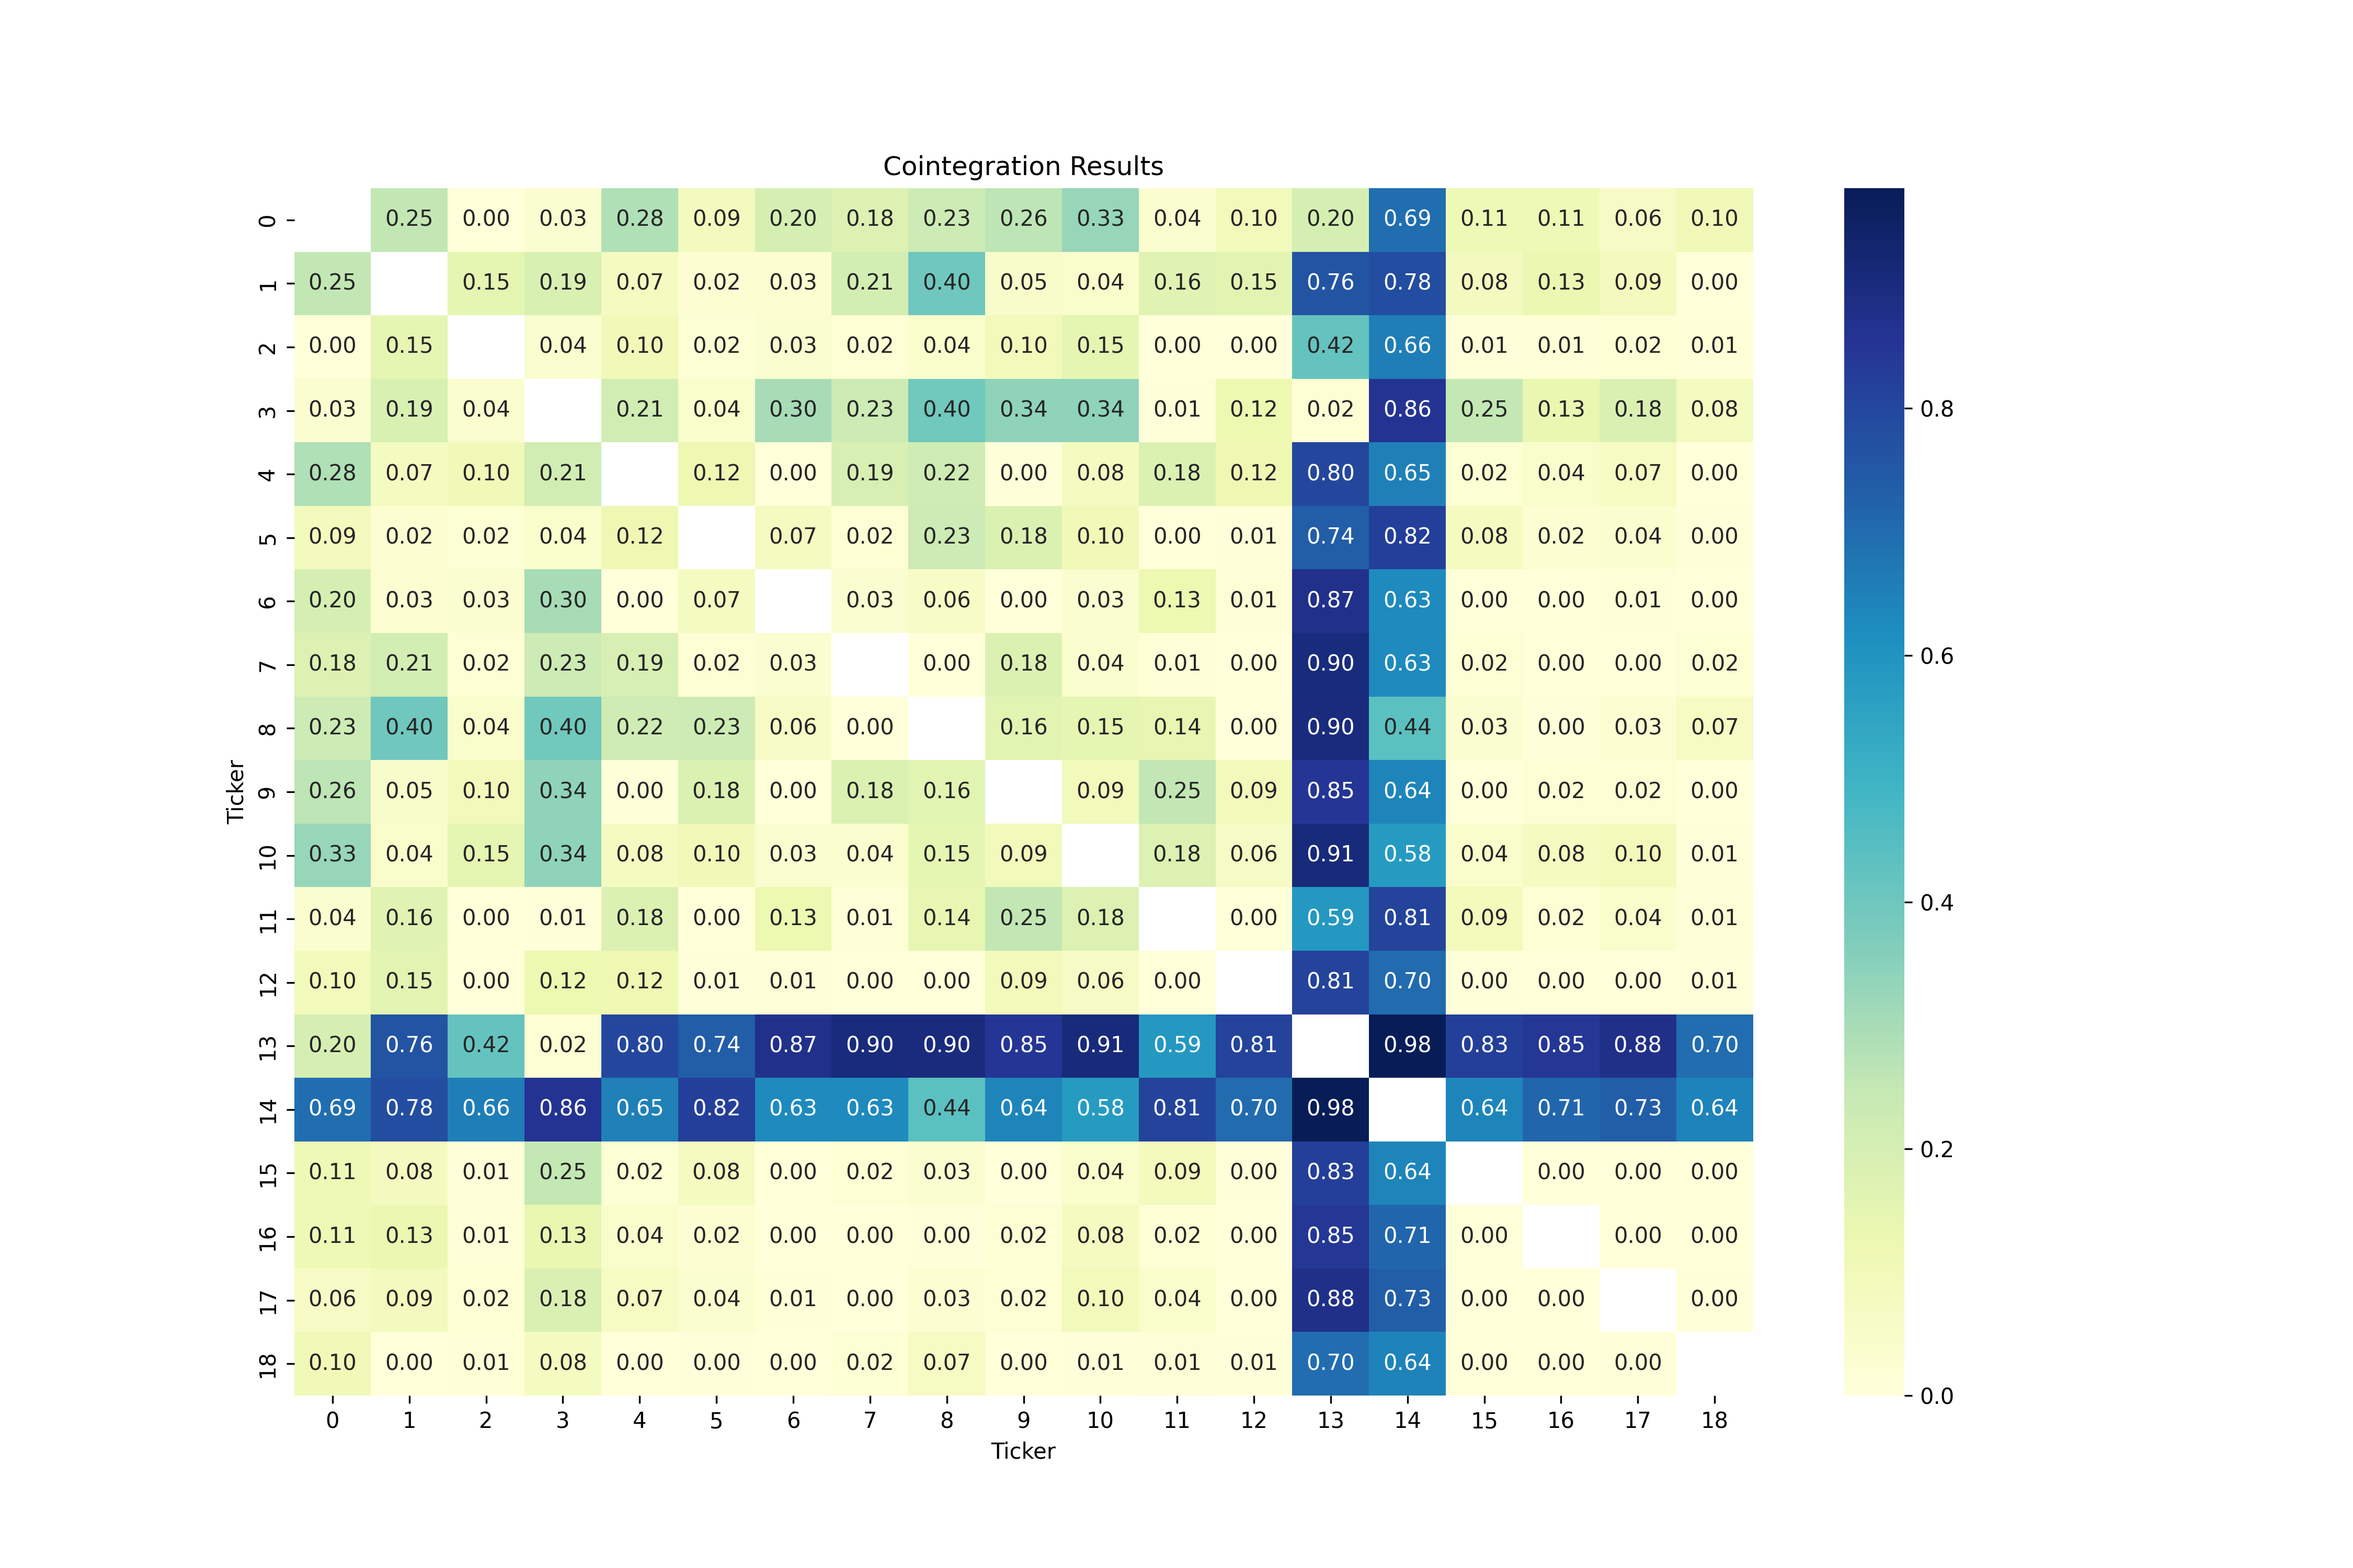
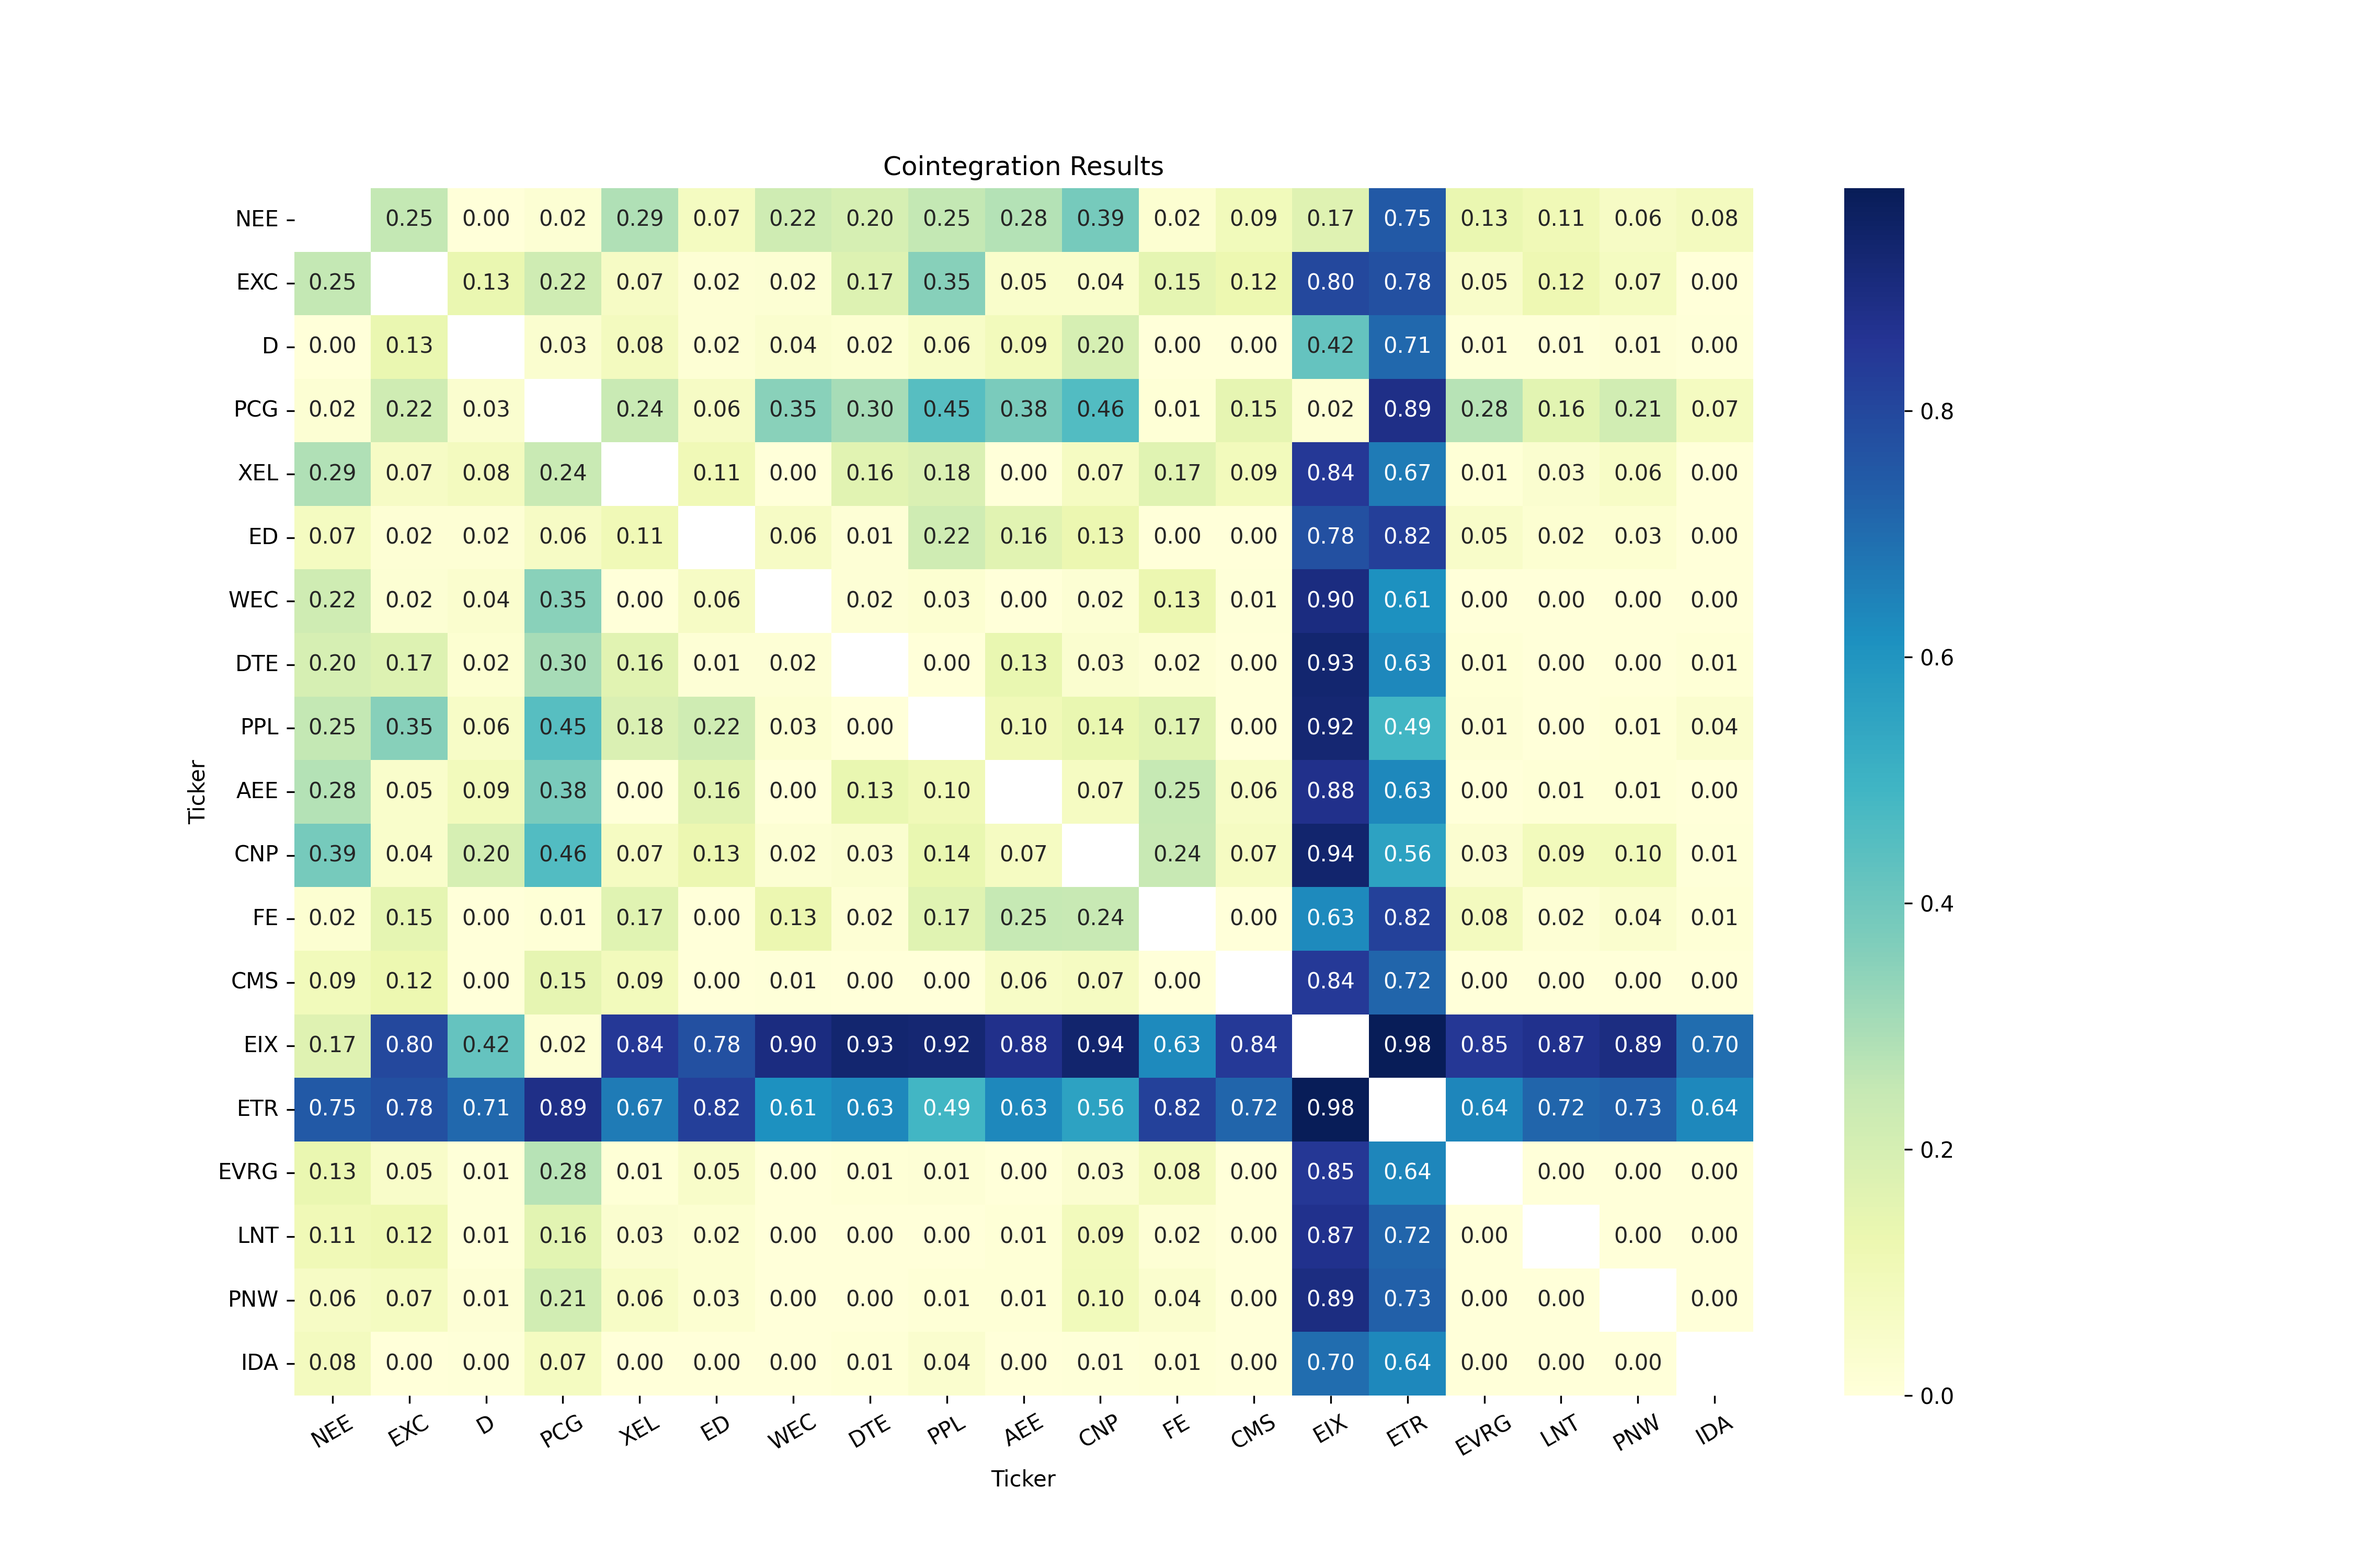
Updated to using self-normalized prices

diff --git a/src/pairs_selection.py b/src/pairs_selection.py
@@ -182,14 +182,20 @@ if __name__ == "__main__":
                 ticker2, ticker1
             ]
             continue
-        log_prices = np.log(close_prices[[ticker1, ticker2]])
+        normalized_prices = close_prices[[ticker1, ticker2]].apply(
+            lambda x: (x / x.mean())
+        )
+
         coint_result = engle_granger(
-            log_prices.iloc[:, 0], log_prices.iloc[:, 1], trend="c", lags=0
+            normalized_prices.iloc[:, 0],
+            normalized_prices.iloc[:, 1],
+            trend="c",
+            lags=0,
         )
         coint_pvalue = coint_result.pvalue
         coint_vector = coint_result.cointegrating_vector[:2]
-        spread = log_prices @ coint_vector
-        spread = log_prices.iloc[:, 0] - log_prices.iloc[:, 1]
+
+        spread = normalized_prices.iloc[:, 0] - normalized_prices.iloc[:, 1]
 
         spread_pvalue = adfuller(spread, maxlag=0)[1]
         if spread_pvalue < 0.05:
@@ -216,6 +222,9 @@ if __name__ == "__main__":
     plt.title("Cointegration Results")
     plt.xlabel("Ticker")
     plt.ylabel("Ticker")
+    # add ticker labels
+    plt.xticks(np.arange(len(utility_tickers)) + 0.5, utility_tickers, rotation=30)
+    plt.yticks(np.arange(len(utility_tickers)) + 0.5, utility_tickers, rotation=0)
     plt_show(prefix="cointegration_results")
 
     # find the pair with the lowest p-value
@@ -235,6 +244,12 @@ if __name__ == "__main__":
         ticker1, ticker2 = lowest_pair
         prices = close_prices[[ticker1, ticker2]]  # .iloc[-1000:]
         spread = prices.iloc[:, 0] - prices.iloc[:, 1]
+
+        # normalized_prices = close_prices[[ticker1, ticker2]].apply(
+        #    lambda x: (x / x.mean())
+        # )
+        # normalized_spread = normalized_prices.iloc[:, 0] - normalized_prices.iloc[:, 1]
+
         # make bands
         rolling_window = 8  # This is used for determining how many days ahead to use to calculate the rolling mean
         std_multiplier = 1
@@ -277,8 +292,8 @@ if __name__ == "__main__":
         ax1.tick_params(axis="x", which="both", bottom=False, labelbottom=False)
 
         # Plot spread direction in the middle subplot
-        position.plot(ax=ax2, title=f"Position of {ticker1} and {ticker2}")
-        ax2.set_ylabel("Direction")
+        position.plot(ax=ax2, title=f"Signal of {ticker1} and {ticker2}")
+        ax2.set_ylabel("Signal")
         ax2.set_xlabel("")
         ax2.grid(True, linestyle="--", alpha=0.7)
         ax2.tick_params(axis="x", which="both", bottom=False, labelbottom=False)
